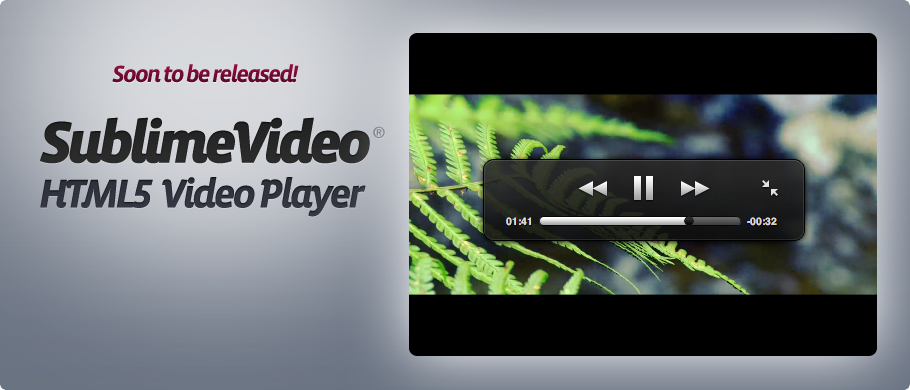
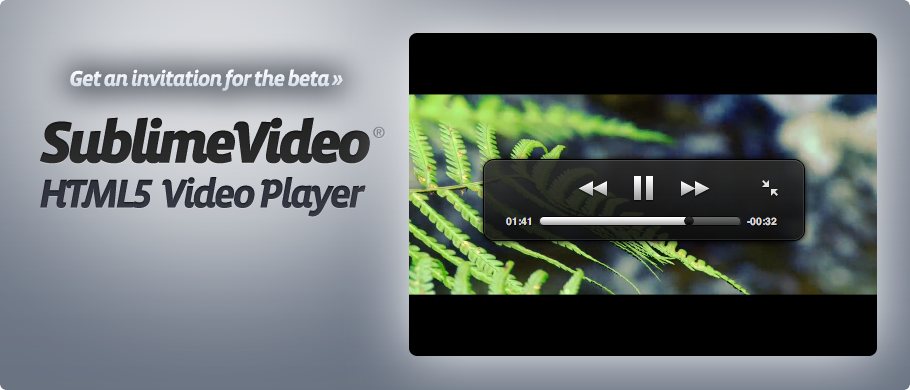
Updated home for sublimevideo notify me

Changed region(s): [[0.0615, 0.1231, 0.4, 0.2769]]

diff --git a/public/stylesheets/style.css b/public/stylesheets/style.css
@@ -213,20 +213,14 @@ h2.headline {
 
 #latest_work .box.sublimevideo a.read_more {
   display:block;
-  width:160px;
-  height:20px;
-  font-weight:bold;
-  font-size:16px;
-  font-style:italic;
-  color:#660a2c;
-  text-align:center;
-  text-shadow:#fff 0 1px 0;
+  width:300px;
+  height:40px;
   position:absolute;
-  top:86px;
-  left:124px;
+  top:60px;
+  left:60px;
 }
 
-#latest_work .box.sublimevideo a.read_more:active {background-position:0 -25px;}
+#latest_work .box.sublimevideo a.read_more span {display:none;}
 
 #latest_work .box.sublimevideo a.view_btn {
   display:block;
